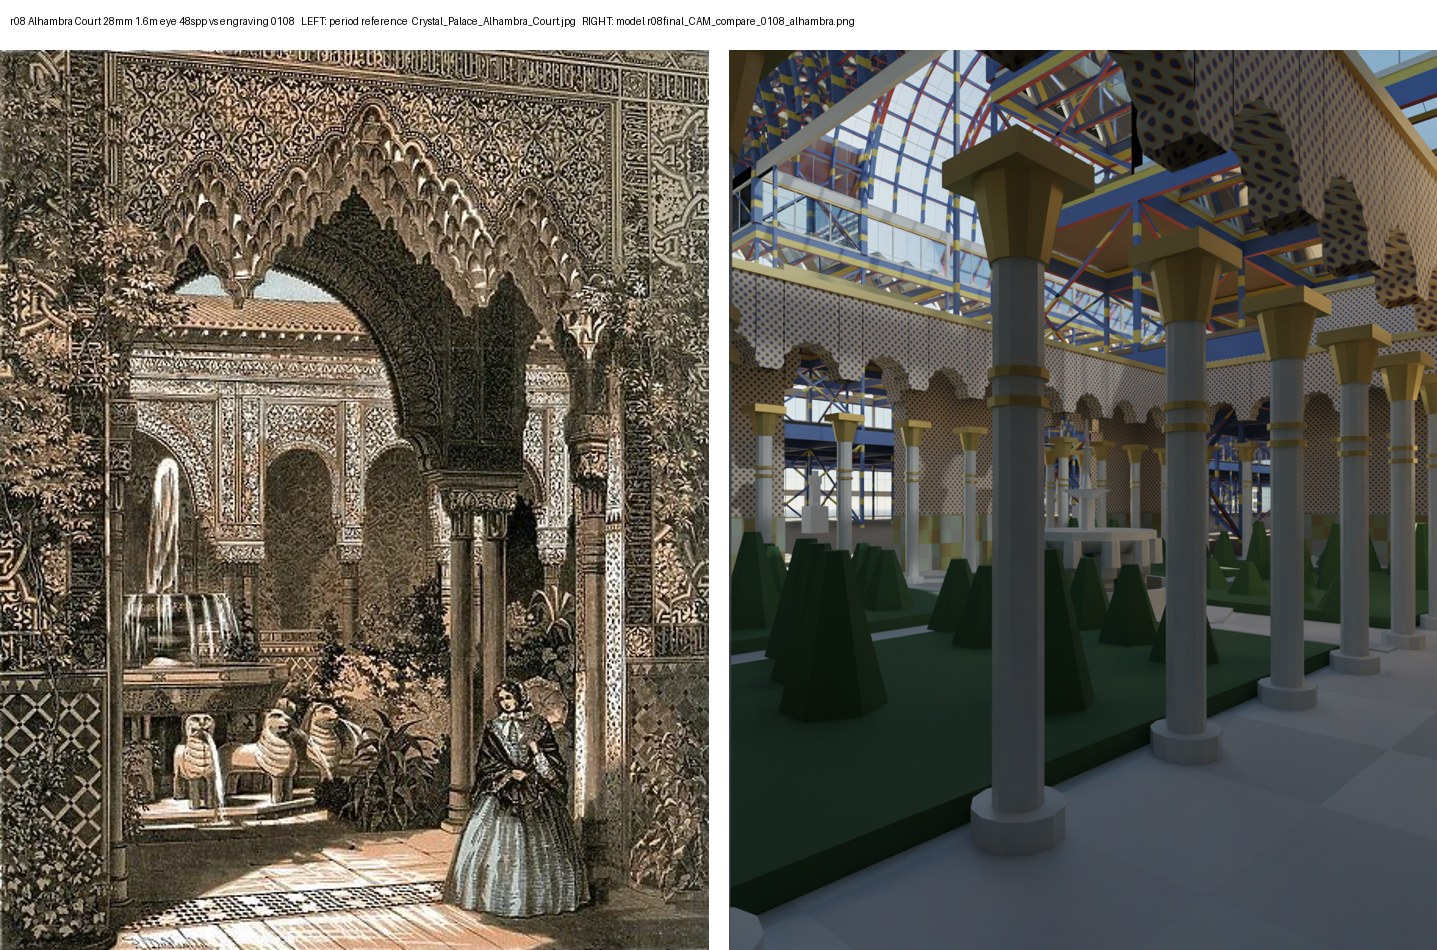
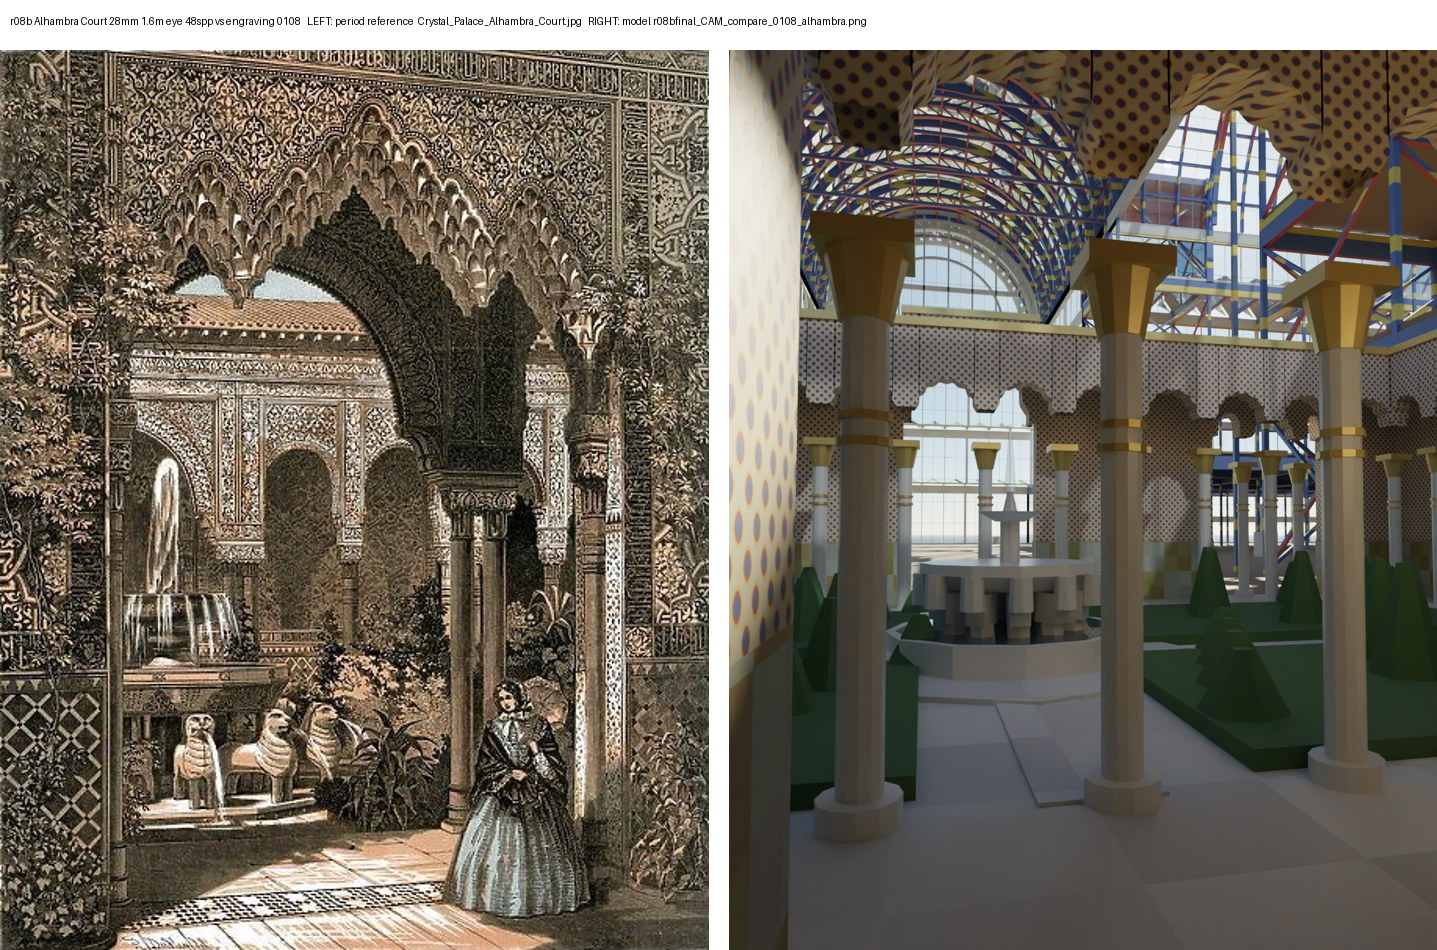
Sydenham r08b: final court renders, 0108 compare, plan overlay, checks, docs (local only)

diff --git a/course-models/crystal-palace-sydenham-1856-grok/PROGRESS.md b/course-models/crystal-palace-sydenham-1856-grok/PROGRESS.md
@@ -8,7 +8,9 @@
 - r06 outputs: renders/r06final_*.png (1920x1080, 128 spp), compare/r06_vs_0074.jpg, compare/r06_vs_0007.jpg, compare/r06_section_vs_0212.jpg, compare/r06_plan_overlay.jpg.
 - r07 (rebuild: SY_NO_COURTS=1 blender -b -P scripts/build.py -- rounds/sydenham-1856-r07.blend): ribbed vault + arched bands, tower bracing, octagonal Brunel towers with lantern, grass banks, ornate basins + jets, 1857 park paths/beds, 0007 cam re-aim, ground slope + basement piers + cut floor in section. 271k faces / 5.1 MB. Dimension checks in checks/r07_dimension_check.txt.
 - r07 outputs: renders/r07final_*.png (0074 128 spp; others 32–64 spp), compare/r07_vs_0074.jpg, r07_vs_0007.jpg, r07_section_vs_0212.jpg, r07_plan_overlay.jpg.
-- r08 (IN PROGRESS, built OK 288,808 faces / 5.6 MB): courts (scripts/courts.py, exec'd at end of build.py unless SY_NO_COURTS) — Egyptian 0226 + Alhambra 0246 collections; finals renders/r08final_* rendering detached (log /workspace/syd_scratch/r08final.log). Next: compare/r08_alhambra_vs_0108.jpg, r08 plan overlay + checks, commit.
+- r08: courts (scripts/courts.py, exec'd at end of build.py unless SY_NO_COURTS) — Egyptian 0226 + Alhambra 0246 as dated collections, court voids in the main frame, Egyptian annex through the Parade wall. 288.8k faces / 5.6 MB. renders/r08final_*.
+- r08b: Alhambra spandrel strips welded (black-seam fix), arcade-walk ceiling, 0108 camera from the Hall of Justice through the central arch. 12/12 dimension PASS (checks/r08b_dimension_check.txt). compare/r08b_plan_overlay.jpg, compare/r08b_courts_on_plan0205.jpg, compare/r08_alhambra_vs_0108.jpg (from r08b render). renders/r08bfinal_* (48 spp; 0108 portrait RES=1080x1371).
+- Render resolution override: RES=WxH env var for scripts/render.py.
 - Commands:
   - Rebuild: /workspace/blender5/blender -b -P scripts/build.py -- rounds/<name>.blend
   - Render: blender -b rounds/X.blend -P scripts/render.py -- renders <tag> <pct> <spp> <cams...>

diff --git a/course-models/crystal-palace-sydenham-1856-grok/DEPARTURES.md b/course-models/crystal-palace-sydenham-1856-grok/DEPARTURES.md
@@ -121,3 +121,11 @@ REVIEW.md checks: #3 (a publication year is not the depicted year) — 0226/0246
 | Alhambra colour: Owen Jones blue/red/gold diaper on stucco, zellige checker dado, gilt capitals | Alhambra materials | I | Jones' scheme documented (external), patterns procedural (not his drawings): **colour placement I, motifs U** |
 | Muqarnas (stalactite) arches and ceilings replaced by cusped arch outlines | courts | — | MISS (0108 shows deep muqarnas) |
 | CP038 / CP041 cameras: 28 mm, 1.6 m eye, 6 m (19.7 ft) push-in over frames 1–120 + hold; CP041 50 mm spandrel insert; CAM_compare_0108_alhambra portrait (RES=1080x1371) | cameras | I | storyboard paths I |
+| r08b: arcade-walk ceiling at ATOP between the Lions colonnade and pier row B | courts | I | 0108 shows a ceiled arcade |
+| r08b: CAM_compare_0108_alhambra re-solved from the Hall of Justice through the central row-B arch | cameras | I | engraving viewpoint inferred |
+
+## Self-review r08/r08b
+- Better: both courts sit on their plan-0205 footprints (overlay); Egyptian hall of papyrus columns with OJ banding reads as a set at 1.6 m eye; Alhambra arcades, Lions fountain and the 0108 arch-framed view work as a composition.
+- MISS: no muqarnas/stalactite work, no carved stucco relief (pattern is procedural diaper only); Divans dome missing; lions and colossi are massing blocks; cypresses are cones; Lions court shows the palace iron roof overhead (correct for Sydenham but the engraving idealises sky).
+- MISS: CP038 entry frame 1 is dominated by the plain door jambs of the ~4 ft door; nave-front screen walls lack painted relief.
+- U: court heights, colour placement, column treatment inside the court voids.

diff --git a/course-models/crystal-palace-sydenham-1856-grok/README.md b/course-models/crystal-palace-sydenham-1856-grok/README.md
@@ -1,4 +1,4 @@
 # Crystal Palace, Sydenham — SY-EARLY (c.1856) scripted Blender model (Grok)
 Separate from the Hyde Park 1851 build: no Hyde Park geometry, grid or section reused; no Codex FBX. Built from the 1856 Guide (plan 0205, section 0212, text pp.29-35) and the 1857 park map.
 See PROGRESS.md (how to rebuild/render), DEPARTURES.md (every guess with evidence grade), checks/, compare/, renders/. Collections under SY-EARLY_c1856 split by part and by dated state (SY54_*, SY56_*, SY_north_transept__lost1866).
-Latest round: rounds/sydenham-1856-r06.blend. Placeholder collections (nave statuary/fountains, park trees) are flagged `PLACEHOLDER_` / `__placeholders`. Owen Jones colour toggle: `OJ_TOGGLE` (scripts/set_palette.py). Terraces and fountains set: SY56_park_fountains_cascades__dated.
+Latest round: rounds/sydenham-1856-r08b.blend (shell + courts; r07 = shell polish only, built with SY_NO_COURTS=1). Courts: SY56_court_egyptian_0226__dated, SY56_court_alhambra_0246__dated (scripts/courts.py), walkable limited sets with CP038/CP041 cameras (28 mm, 1.6 m eye; entry cams animated frames 1-120). Placeholder collections (nave statuary/fountains, park trees) are flagged `PLACEHOLDER_` / `__placeholders`. Owen Jones colour toggle: `OJ_TOGGLE` (scripts/set_palette.py). Terraces and fountains set: SY56_park_fountains_cascades__dated.
